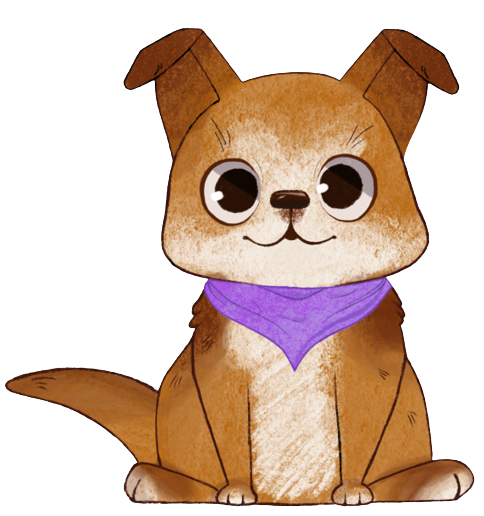
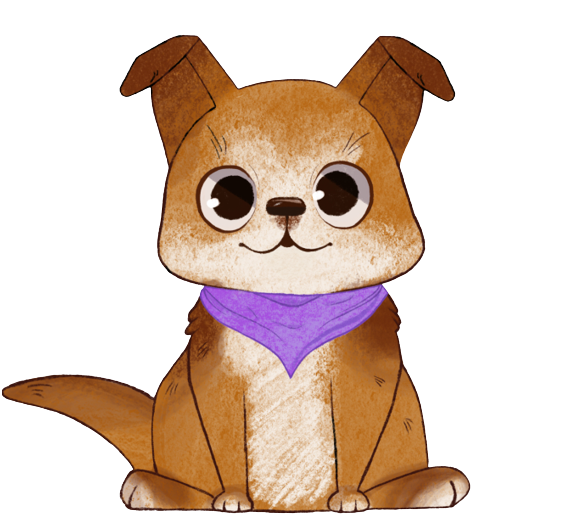
Final dog images fix

diff --git a/index.html b/index.html
@@ -167,7 +167,7 @@
             </div>
           </div>
         </div>
-        <div class="col d-flex flex-column align-items-center justify-content-center">
+        <div class="col d-flex flex-column align-items-center justify-content-center pt-2">
           <div class="mw-75">
             <img id="gameSceneDog" class="img-fluid" src="./images/transition dog.png" alt="emoji"/>
           </div>

diff --git a/game.js b/game.js
@@ -29,8 +29,7 @@ function switchMode(num) {
     }
 }
 
-function 
-switchDifficulty () {
+function switchDifficulty () {
     switch(difficulty){
         case "Easy": randomNumbers(0, 10, 0, 10);
         break;
